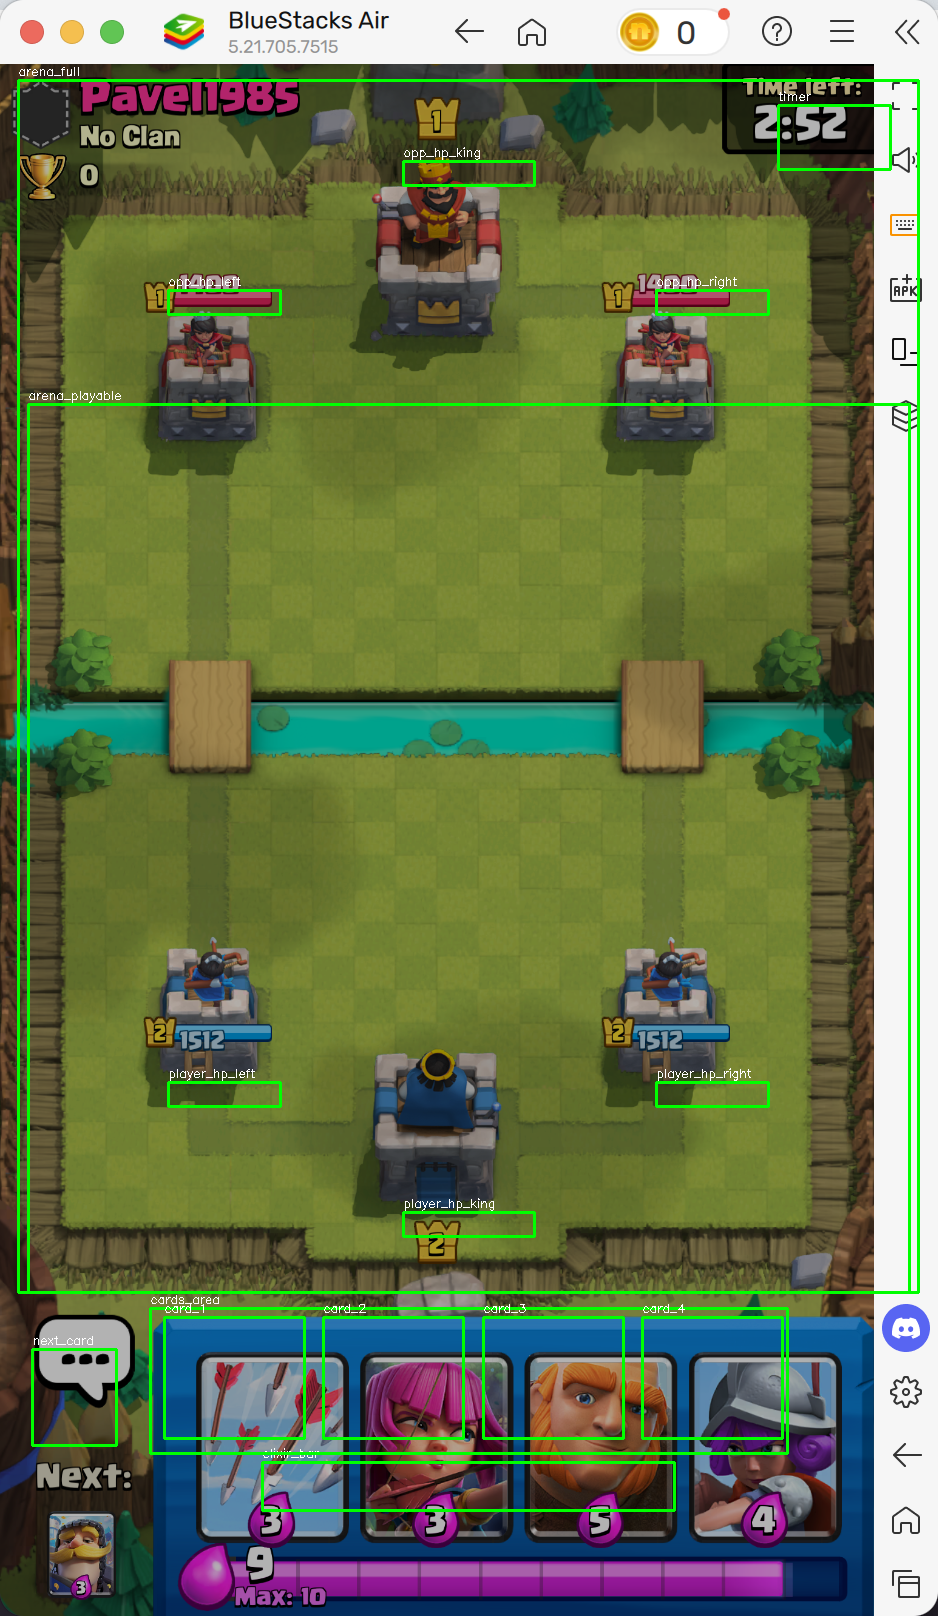
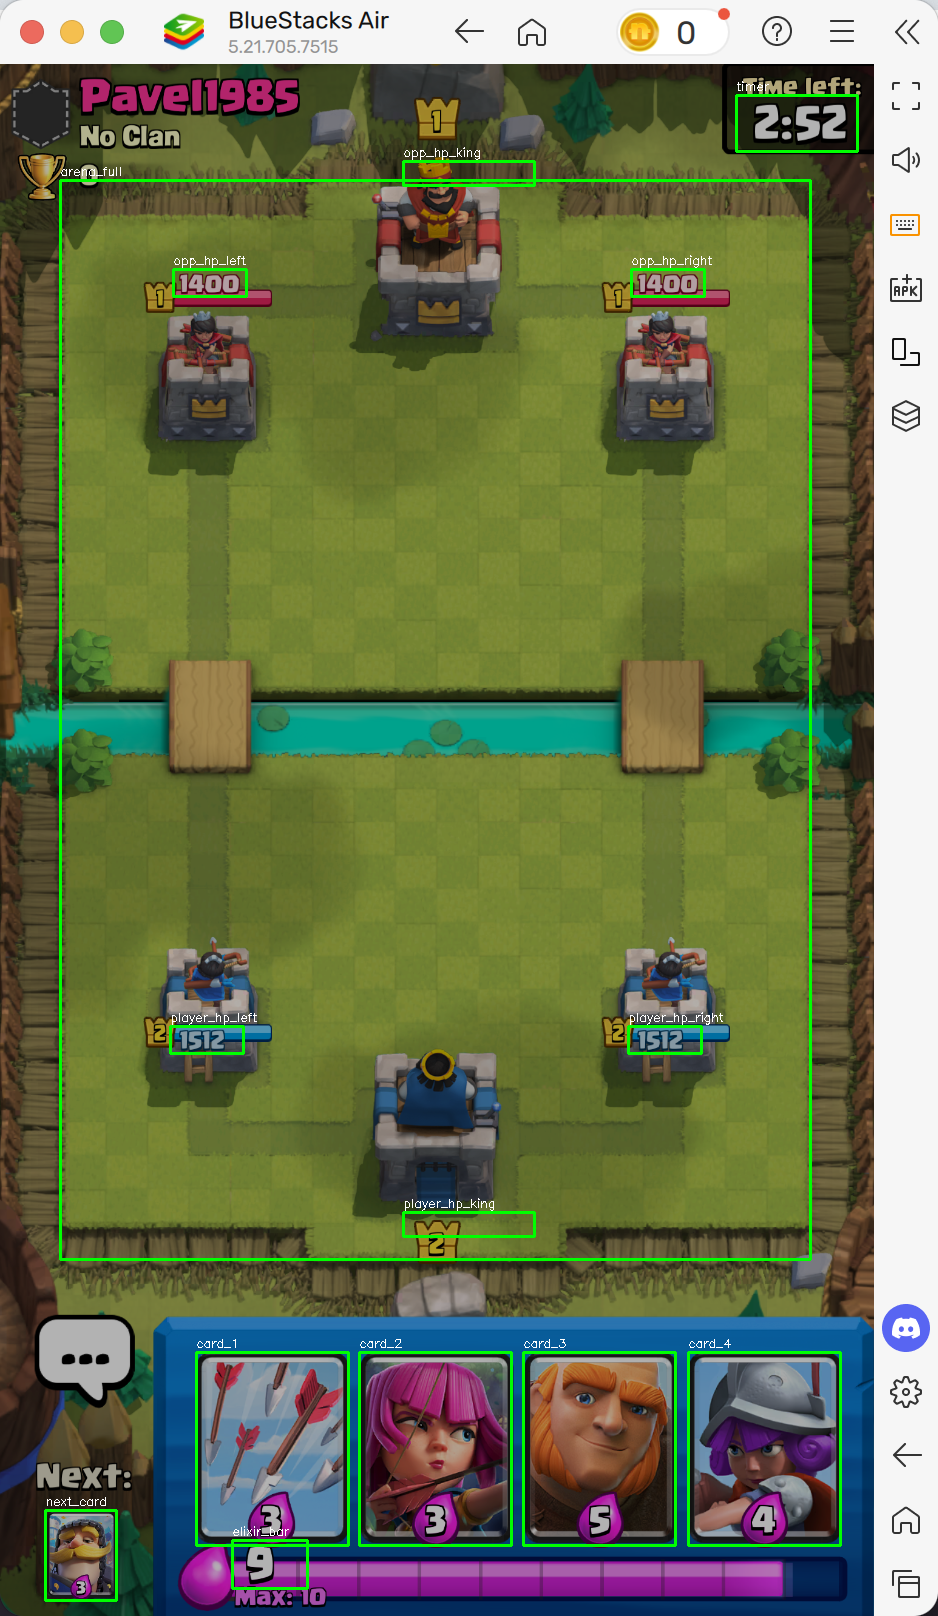
Refine ROI definitions in game_analyzer.py for improved accuracy in window capture

diff --git a/game_analyzer.py b/game_analyzer.py
@@ -11,26 +11,25 @@ import time
 # These are ESTIMATES based on the provided screenshot and may need tuning!
 # Format: (left_edge_pct, top_edge_pct, width_pct, height_pct)
 ROI_DEFINITIONS_PCT = {
-    "timer":            (0.83, 0.065, 0.12, 0.04),  # Moved down/right slightly, narrowed
-    "elixir_bar":       (0.28, 0.905, 0.44, 0.03),  # Defined more accurately, smaller height
-    "cards_area":       (0.16, 0.81, 0.68, 0.09),   # Reduced height slightly
-    "card_1":           (0.175, 0.815, 0.15, 0.075), # Shifted right, narrowed, reduced height
-    "card_2":           (0.345, 0.815, 0.15, 0.075), # Shifted right, narrowed, reduced height
-    "card_3":           (0.515, 0.815, 0.15, 0.075), # Shifted right, narrowed, reduced height
-    "card_4":           (0.685, 0.815, 0.15, 0.075), # Shifted right, narrowed, reduced height
-    "next_card":        (0.035, 0.835, 0.09, 0.06),  # Shifted right/down, narrowed, reduced height
-    # --- Health Bars (Approximate - focus on the bar itself) ---
+    "timer":            (0.785, 0.059, 0.13, 0.035),  # Shifted right slightly, narrowed
+    "elixir_bar":       (0.248, 0.953, 0.08, 0.03),  # Looks good, kept same
+    # Cards adjusted down slightly, narrowed, and shortened
+    "card_1":           (0.21, 0.837, 0.163, 0.12),
+    "card_2":           (0.383, 0.837, 0.163, 0.12),
+    "card_3":           (0.558, 0.837, 0.163, 0.12),
+    "card_4":           (0.734, 0.837, 0.163, 0.12),
+    "next_card":        (0.048, 0.935, 0.076, 0.056),  # Looks good, kept same
+    # --- Health Bars (Looked good, kept same) ---
     # Player Towers
-    "player_hp_left":   (0.18, 0.67, 0.12, 0.015),  # Moved up
-    "player_hp_king":   (0.43, 0.75, 0.14, 0.015),  # Moved up
-    "player_hp_right":  (0.70, 0.67, 0.12, 0.015),  # Moved up
+    "player_hp_left":   (0.182, 0.635, 0.078, 0.017),
+    "player_hp_king":   (0.43, 0.75, 0.14, 0.015),
+    "player_hp_right":  (0.67, 0.635, 0.078, 0.017),
     # Opponent Towers
-    "opp_hp_left":      (0.18, 0.18, 0.12, 0.015),  # Moved up
-    "opp_hp_king":      (0.43, 0.10, 0.14, 0.015),  # Moved up
-    "opp_hp_right":     (0.70, 0.18, 0.12, 0.015),  # Moved up
-    # --- Full Arena (for CNN input, excluding hand/top bar maybe?) ---
-    "arena_full":       (0.02, 0.05, 0.96, 0.75), # Kept same for now
-    "arena_playable":   (0.03, 0.25, 0.94, 0.55), # Kept same for now
+    "opp_hp_left":      (0.185, 0.167, 0.078, 0.017),
+    "opp_hp_king":      (0.43, 0.10, 0.14, 0.015),
+    "opp_hp_right":     (0.673, 0.167, 0.078, 0.017),
+    # --- Arena Areas (Kept same) ---
+    "arena_full":       (0.064, 0.112, 0.8, 0.668)
 }
 
 # Drawing Configuration
